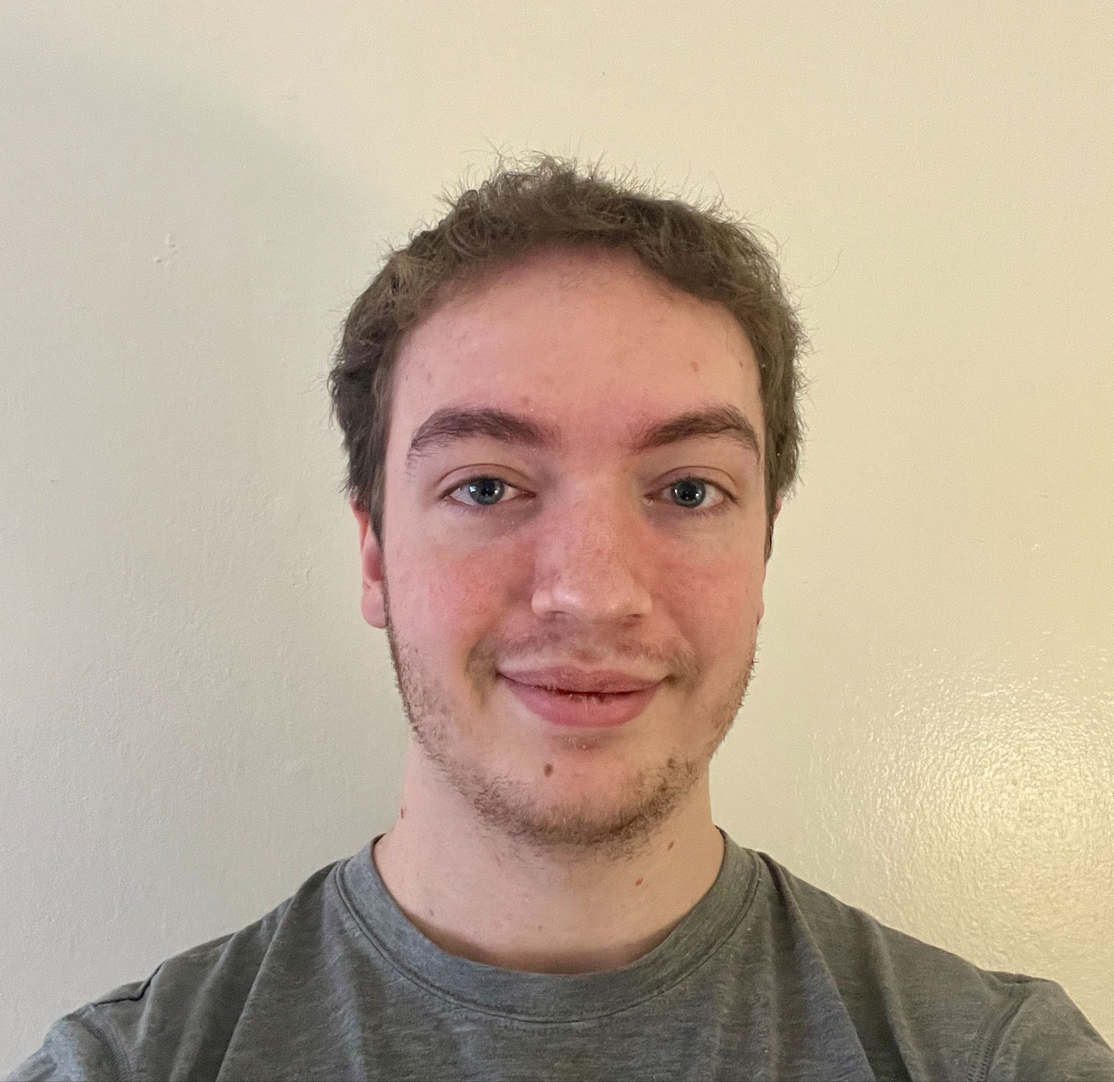
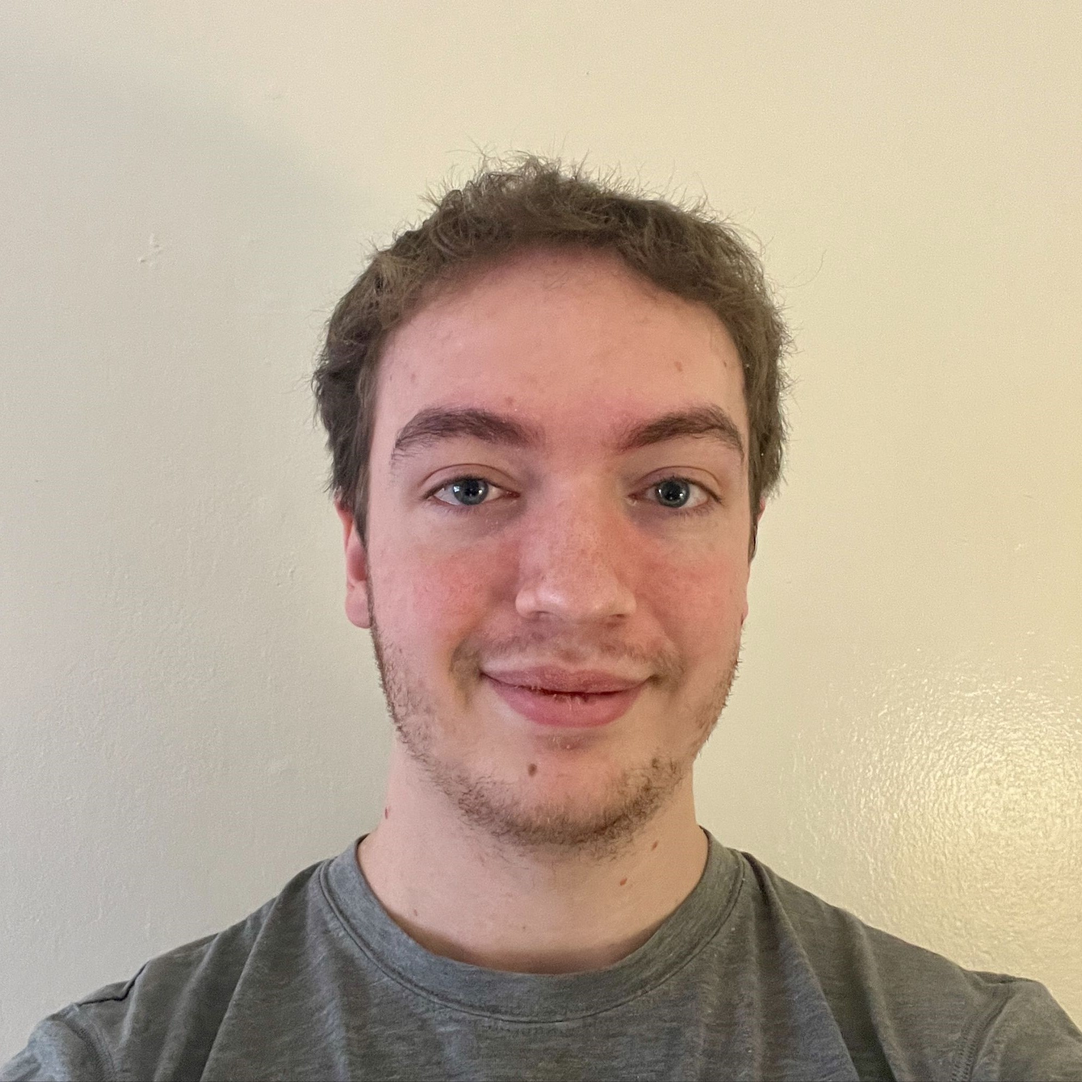
Cropped all headshots to be 1:1; updated bio.

diff --git a/bios.html b/bios.html
@@ -26,8 +26,8 @@
             
             <h2>Hannah Bray</h2>
             <img src="Headshots/Hannah.jpg" alt="Hannah Bray" width="42" height="42">
-            <p>FIXME</p>
-            
+            <p>Hannah Bray is a senior from Birmingham, AL, majoring in Computer Science and German Literature and Language with a minor in the Blount Scholars Program. The majority of her experience has been working with process automation in C# and full stack ASP .NET web development.</p>
+               
             <h2>Khushi Modi</h2>
             <img src="Headshots/Khushi.png" alt="Khushi Modi" width="42" height="42">
             <p>FIXME</p>
